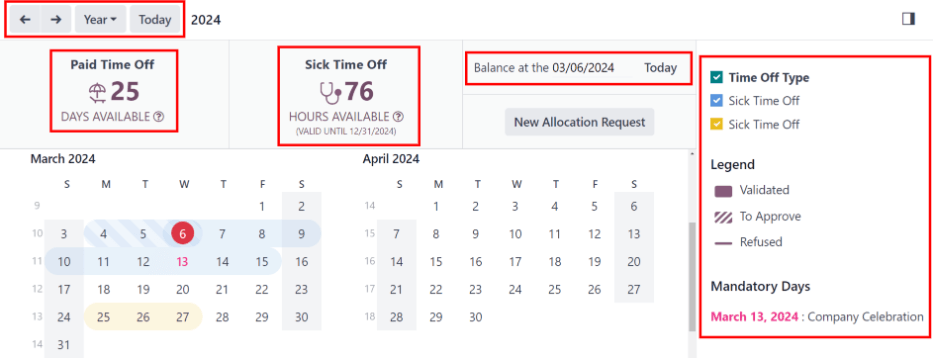
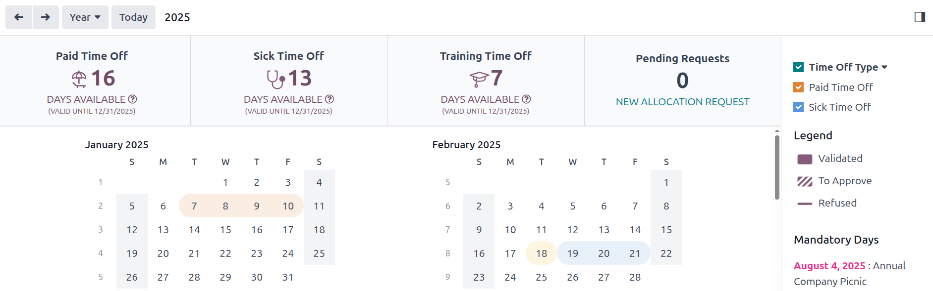
[IMP] Time Off: Updating My Time
X-original-commit: d97b8c4870e03b2e7aa12edd46fcc75d9279c0ca

diff --git a/content/applications/hr/time_off/my_time.rst b/content/applications/hr/time_off/my_time.rst
@@ -2,22 +2,24 @@
 My time
 =======
 
-The *My Time* menu of the *Time Off* application houses all the various time off information for
-the signed-in user.
+The *My Time* menu of the **Time Off** app houses all the various time off information for the
+signed-in user.
 
-This includes the main *Time Off* dashboard, which displays an overview of the various time off
-balances, as well as time-off requests and allocations.
+This includes the main **Time Off** :ref:`dashboard <time_off/dashboard>`, which displays an
+overview of the various time off balances, as well as :ref:`time-off requests
+<time_off/my-time-off>` and :ref:`allocations <time_off/my-allocations>`.
 
 .. _time_off/dashboard:
 
 Dashboard
----------
+=========
 
-All users have access to the *Time Off* :guilabel:`Dashboard`, which is the first page that appears
-when the *Time Off* application is opened. The :guilabel:`Dashboard` can also be accessed at any
+All users have access to the **Time Off** :guilabel:`Dashboard`, which is the first page that
+appears when the **Time Off** app is opened. The :guilabel:`Dashboard` can also be accessed at any
 point in the application, by navigating to :menuselection:`Time Off app --> My Time --> Dashboard`.
 
-The current year is displayed, and the current day is highlighted in a red circle.
+The dashboard shows a summary of the user's time off, and the entire current year, with the current
+day highlighted in a red circle.
 
 To change the view, click on the :guilabel:`Year` button to reveal a drop-down menu. Then, select
 either :guilabel:`Day`, :guilabel:`Week`, or :guilabel:`Month` to present the calendar in that
@@ -44,7 +46,6 @@ off summary. The complete details are presented in a popover window, including t
 scheduled, :guilabel:`Planned` time off, and the currently :guilabel:`Available` time off.
 
 .. image:: my_time/balance-details.png
-   :align: center
    :alt: A view of the complete time off balance details in the popover window.
 
 A user can also select a future date to see an estimate of how much time they should accrue by that
@@ -79,16 +80,16 @@ Allocation Request` button to request more time off, and a :ref:`New Allocation
 <time_off/request-allocation>` pop-up window appears.
 
 .. image:: my_time/dashboard.png
-   :align: center
    :alt: Time off dashboard view with the legend, time off summaries, and view buttons highlighted.
 
 .. _time_off/my-time-off:
 
 My time off
------------
+===========
 
-To view a list of all the time off requests, navigate to :menuselection:`Time Off app --> My Time
---> My Time Off`. Here, all time off requests, both past and present, appear in a list view.
+To view a list of all the signed-in user's time off requests, navigate to :menuselection:`Time Off
+app --> My Time --> My Time Off`. Here, all time off requests, both past and present, appear in a
+list view, grouped by month.
 
 The list includes the following information for each request: the :guilabel:`Time Off Type`,
 :guilabel:`Description`, :guilabel:`Start Date`, :guilabel:`End Date`, :guilabel:`Duration`, and
@@ -97,17 +98,24 @@ The list includes the following information for each request: the :guilabel:`Tim
 A new time off request can be made from this view. Click the :guilabel:`New` button to
 :doc:`request_time_off`.
 
+.. image:: my_time/my-time.png
+   :alt: My Time list view with all requests.
+
 .. _time_off/my-allocations:
 
 My allocations
---------------
+==============
 
 To view a list of all allocations, navigate to :menuselection:`Time Off app --> My Time --> My
 Allocations`. All allocations and requested allocations appear in a list view.
 
 The information presented on the :guilabel:`My Allocations` page includes: :guilabel:`Time Off
-Type`, :guilabel:`Description`, :guilabel:`Amount`, :guilabel:`Allocation Type`, and
-:guilabel:`Status`.
+Type`, :guilabel:`Amount`, :guilabel:`Allocation Type`, :guilabel:`Accrual Plan`, and
+:guilabel:`Status`. If the signed-in user has the appropriate access rights, they may also see an
+option to :guilabel:`Approve` requests, if applicable.
 
 A new allocation request can be made from this view, as well. Click the :guilabel:`New` button to
 :ref:`request an allocation <time_off/request-allocation>`.
+
+.. image:: my_time/my-allocations.png
+   :alt: My Allocations list view with all requests.
